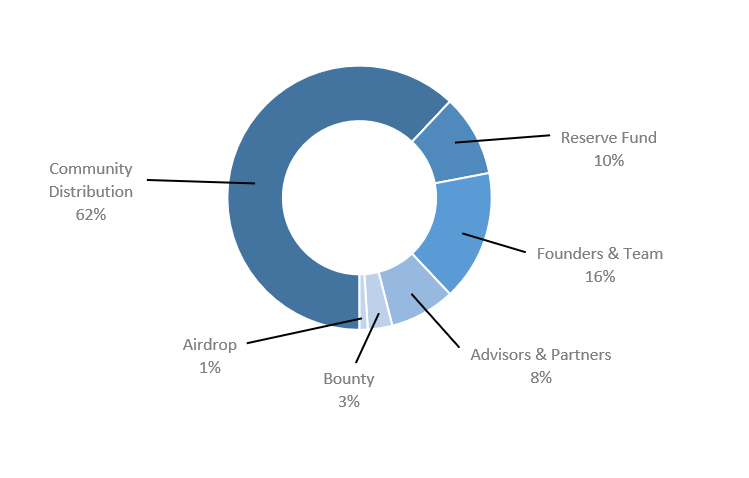
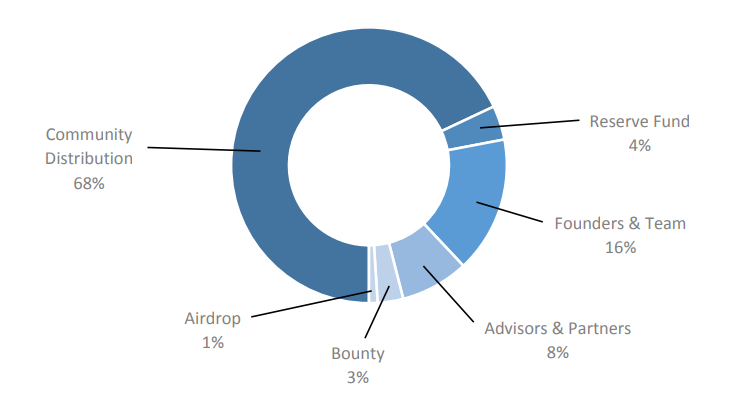
Updated token distribution changes and adjusted token supply hard cap

diff --git a/README.md b/README.md
@@ -7,6 +7,7 @@ Refer below for more information about [GStar's Crowdsale][gstar.ai] and the cro
 ## Overview
 
 ## Contracts
+The contracts are located in the [contracts](contracts) directory.
 
 ## Crowdsale Specification
 * GSTAR token is ERC-20 compliant.
